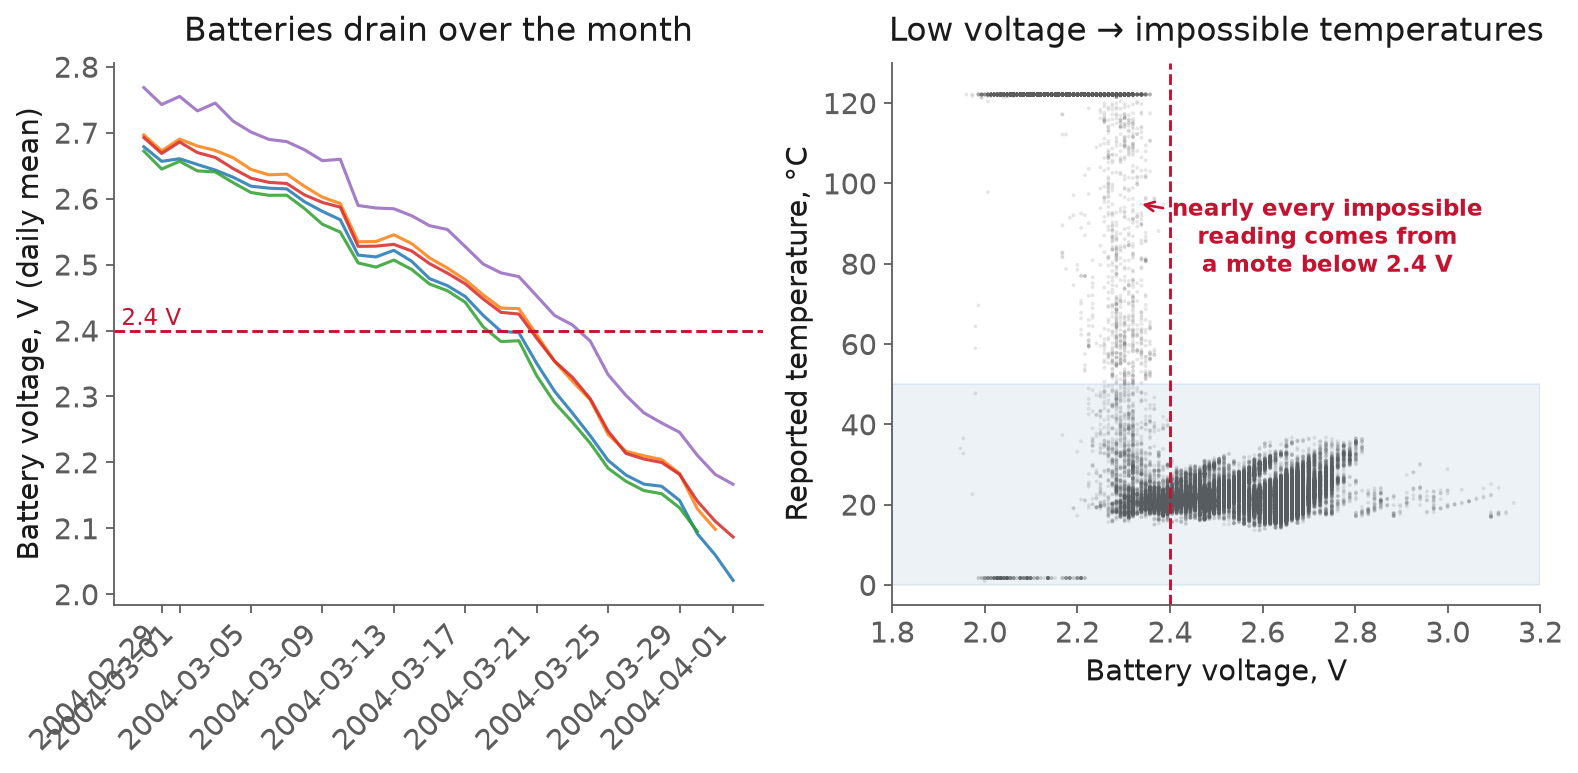
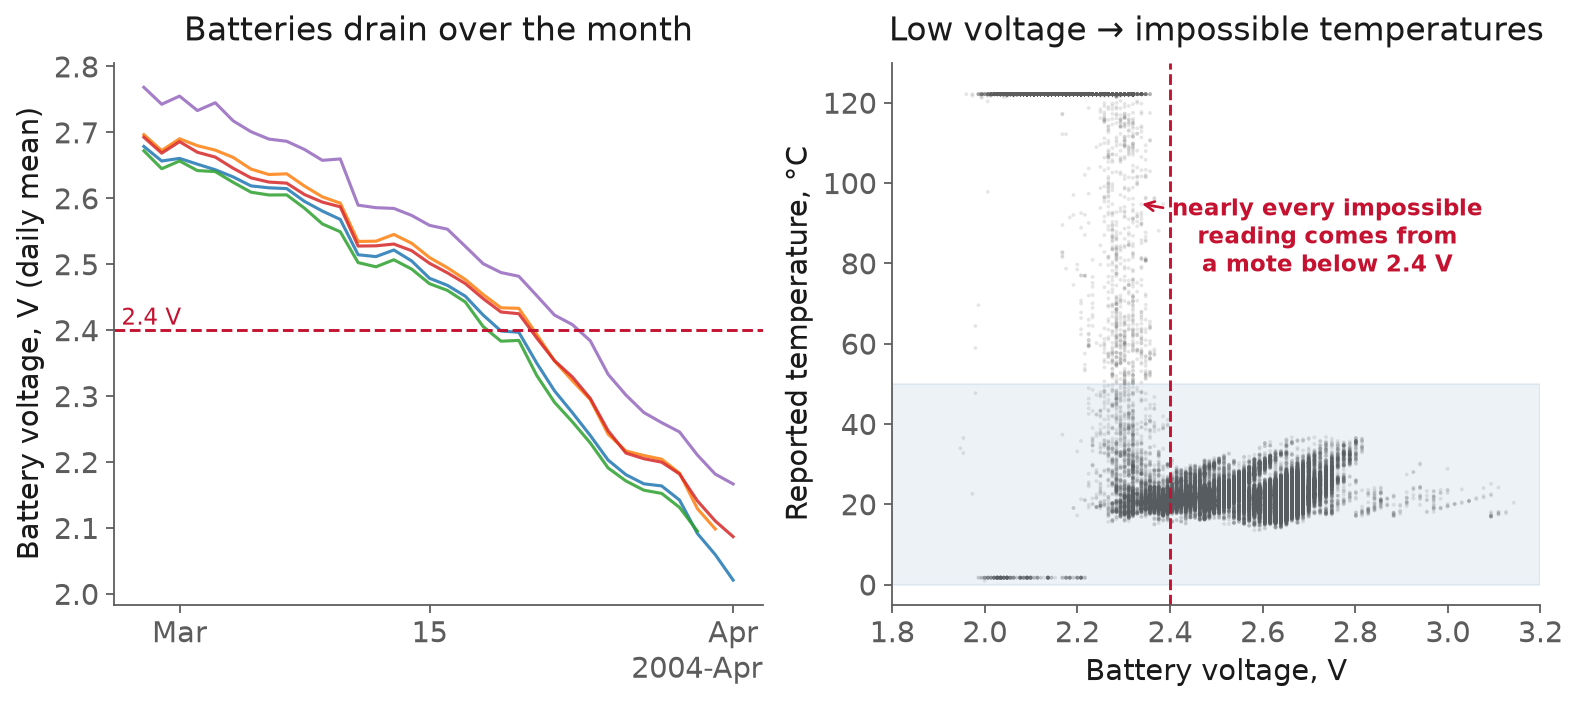
Notebook opener, two figure overlaps, and a denser slide theme
Three polish items from the review pass:

- Demo notebook: replace the throwaway "We import what we need" opener in the L1
  reproducibility notebook with a line that names the imports and keeps the
  point about unrecorded versions. Edited in build_notebook.py and regenerated;
  the intentional defects (the trapz/trapezoid version break, the absolute path)
  are untouched.
- Figures: the visual review flagged two overlaps out of the whole first half.
  L3's voltage panel had colliding date labels (now a concise date locator with
  fewer ticks), and L9's selection-bias tagline overlapped a point label (moved
  to clear space). Both scripts fixed and those two PNGs regenerated.
- Slide theme: raise the base font (26 to 30px) and tighten the vertical padding
  so slide content fills the frame instead of floating in the middle with large
  empty margins, which is what made the decks look sparse. Checked against both
  the thinnest slides and the densest table slides; both render well. Also
  dropped a leftover figure-provenance line on an L2 slide.

diff --git a/themes/course.css b/themes/course.css
@@ -21,12 +21,12 @@
   --accent-bg: #f6f6f7;
 
   font-family: -apple-system, BlinkMacSystemFont, 'Segoe UI', Helvetica, Arial, sans-serif;
-  font-size: 26px;
+  font-size: 30px;
   color: var(--ink);
 }
 
 section {
-  padding: 60px 70px;
+  padding: 50px 70px;
   background: #fff;
 }
 

diff --git a/lectures/l03/figures/make_figures.py b/lectures/l03/figures/make_figures.py
@@ -30,6 +30,7 @@ import matplotlib
 matplotlib.use("Agg")
 import matplotlib.patches as patches
 import matplotlib.pyplot as plt
+import matplotlib.dates as mdates
 import numpy as np
 import pandas as pd
 
@@ -224,9 +225,9 @@ def fig_voltage(df: pd.DataFrame):
              color=CMU_RED, fontsize=10.5)
     axv.set_ylabel("Battery voltage, V (daily mean)")
     axv.set_title("Batteries drain over the month", pad=10)
-    for lab in axv.get_xticklabels():
-        lab.set_rotation(45)
-        lab.set_ha("right")
+    axv.xaxis.set_major_locator(mdates.AutoDateLocator(maxticks=6))
+    axv.xaxis.set_major_formatter(
+        mdates.ConciseDateFormatter(axv.xaxis.get_major_locator()))
 
     # Right: temperature vs voltage, showing the explosion at low voltage.
     samp = d.sample(n=min(60000, len(d)), random_state=0)

diff --git a/lectures/l09/figures/make_figures.py b/lectures/l09/figures/make_figures.py
@@ -496,9 +496,9 @@ def fig_selection_bias(ccpp: pd.DataFrame, noise: float) -> dict:
             f"By n = {crossing:,} it has vanished into the noise, and on all\n"
             f"{len(X):,} rows it is {bias[-1]:+.3f} MW: unmeasurable.",
             transform=ax.transAxes, fontsize=11.5, color=INK, va="top")
-    ax.text(0.30, 0.50, "Nested CV is small-data insurance.\nKnow which regime you are in.",
+    ax.text(0.60, 0.92, "Nested CV is small-data insurance.\nKnow which regime you are in.",
             transform=ax.transAxes, fontsize=12.5, color=CMU_RED, fontweight="bold",
-            va="top")
+            ha="left", va="top")
 
     fig.savefig(HERE / "selection-bias.png")
     plt.close(fig)

diff --git a/lectures/l01/build_notebook.py b/lectures/l01/build_notebook.py
@@ -65,8 +65,9 @@ cells = [
 
     md("## 1. Environment\n",
        "\n",
-       "We import what we need. Nothing here records *which version* of anything this\n",
-       "analysis was written against, and there is no lockfile beside the notebook.\n",
+       "These imports pull in NumPy, pandas, and scikit-learn, but nothing here records\n",
+       "*which version* of any of them this analysis was written against, and there is no\n",
+       "lockfile beside the notebook.\n",
        "\n",
        "Print the versions and hold onto them. They matter in section 5."),
 

diff --git a/lectures/l02/slides.md b/lectures/l02/slides.md
@@ -419,7 +419,7 @@ papers could even be **built** in half an hour.
 
 ![w:1000](figures/notebook-repro.png)
 
-<span class="source">Pimentel et al. (2019): of 863,878 valid Python notebooks that could be run. Generated by <code>figures/make_figures.py</code>.</span>
+<span class="source">Pimentel et al. (2019): of 863,878 valid Python notebooks that could be run.</span>
 
 ---
 
